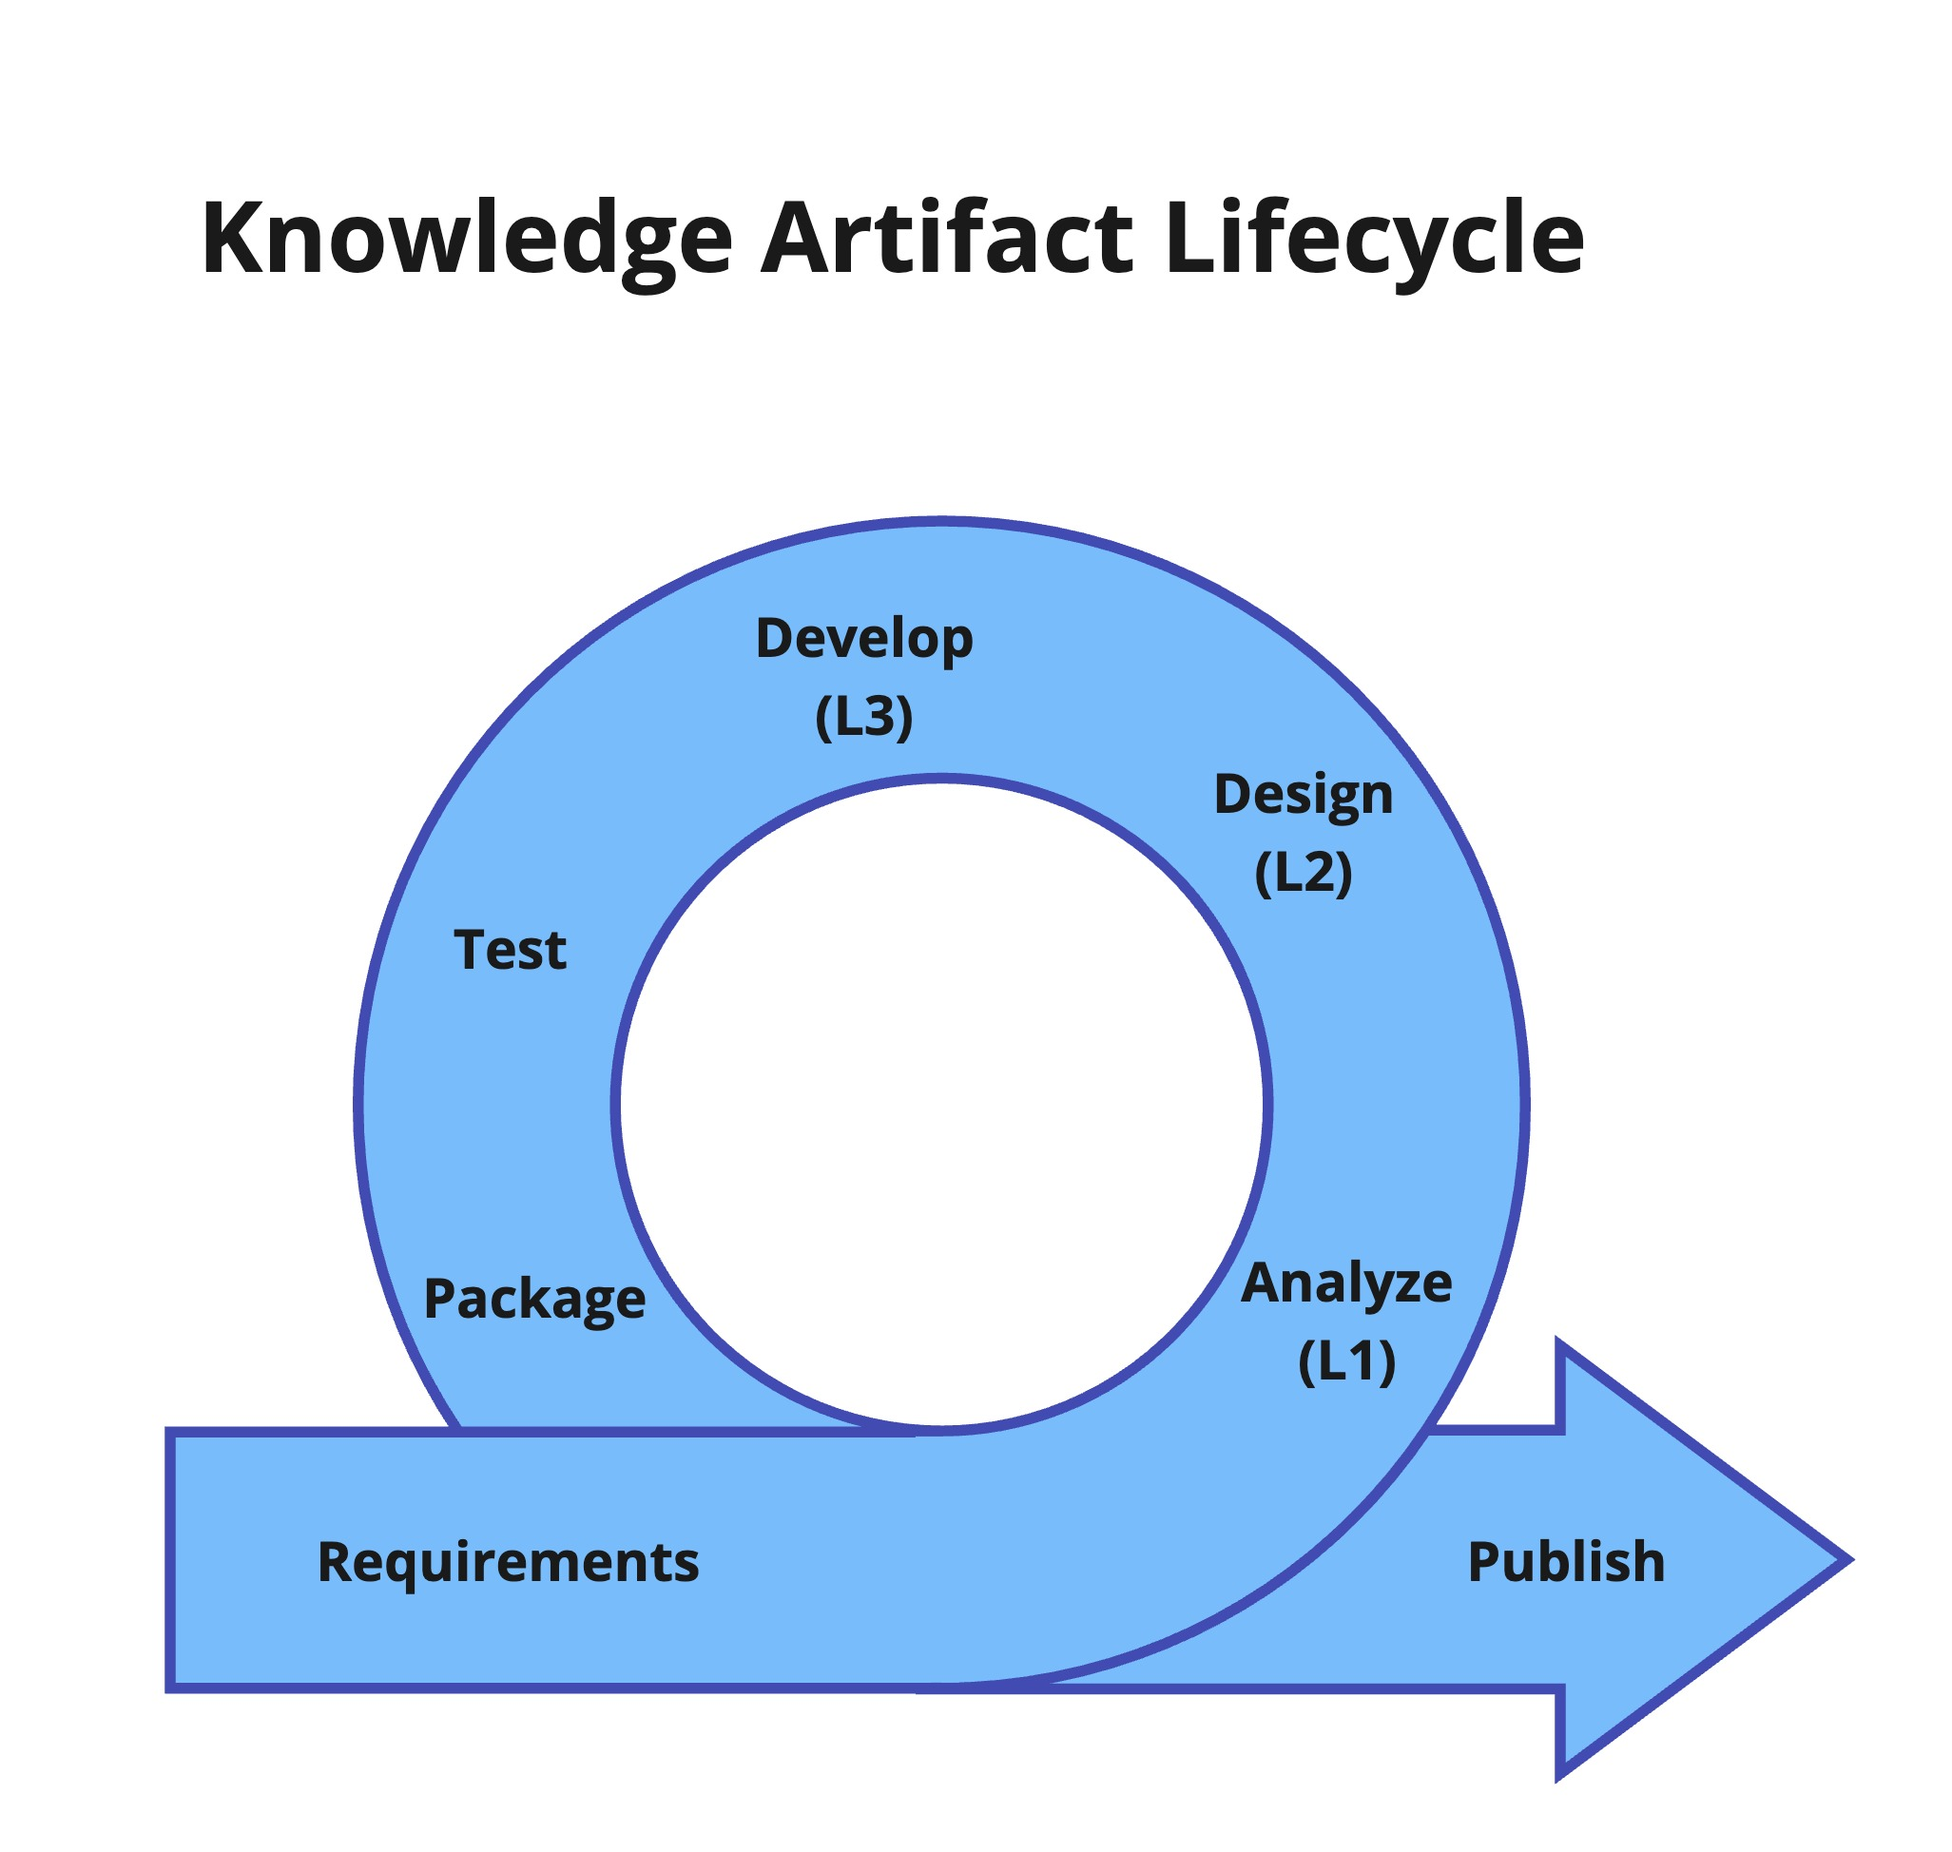
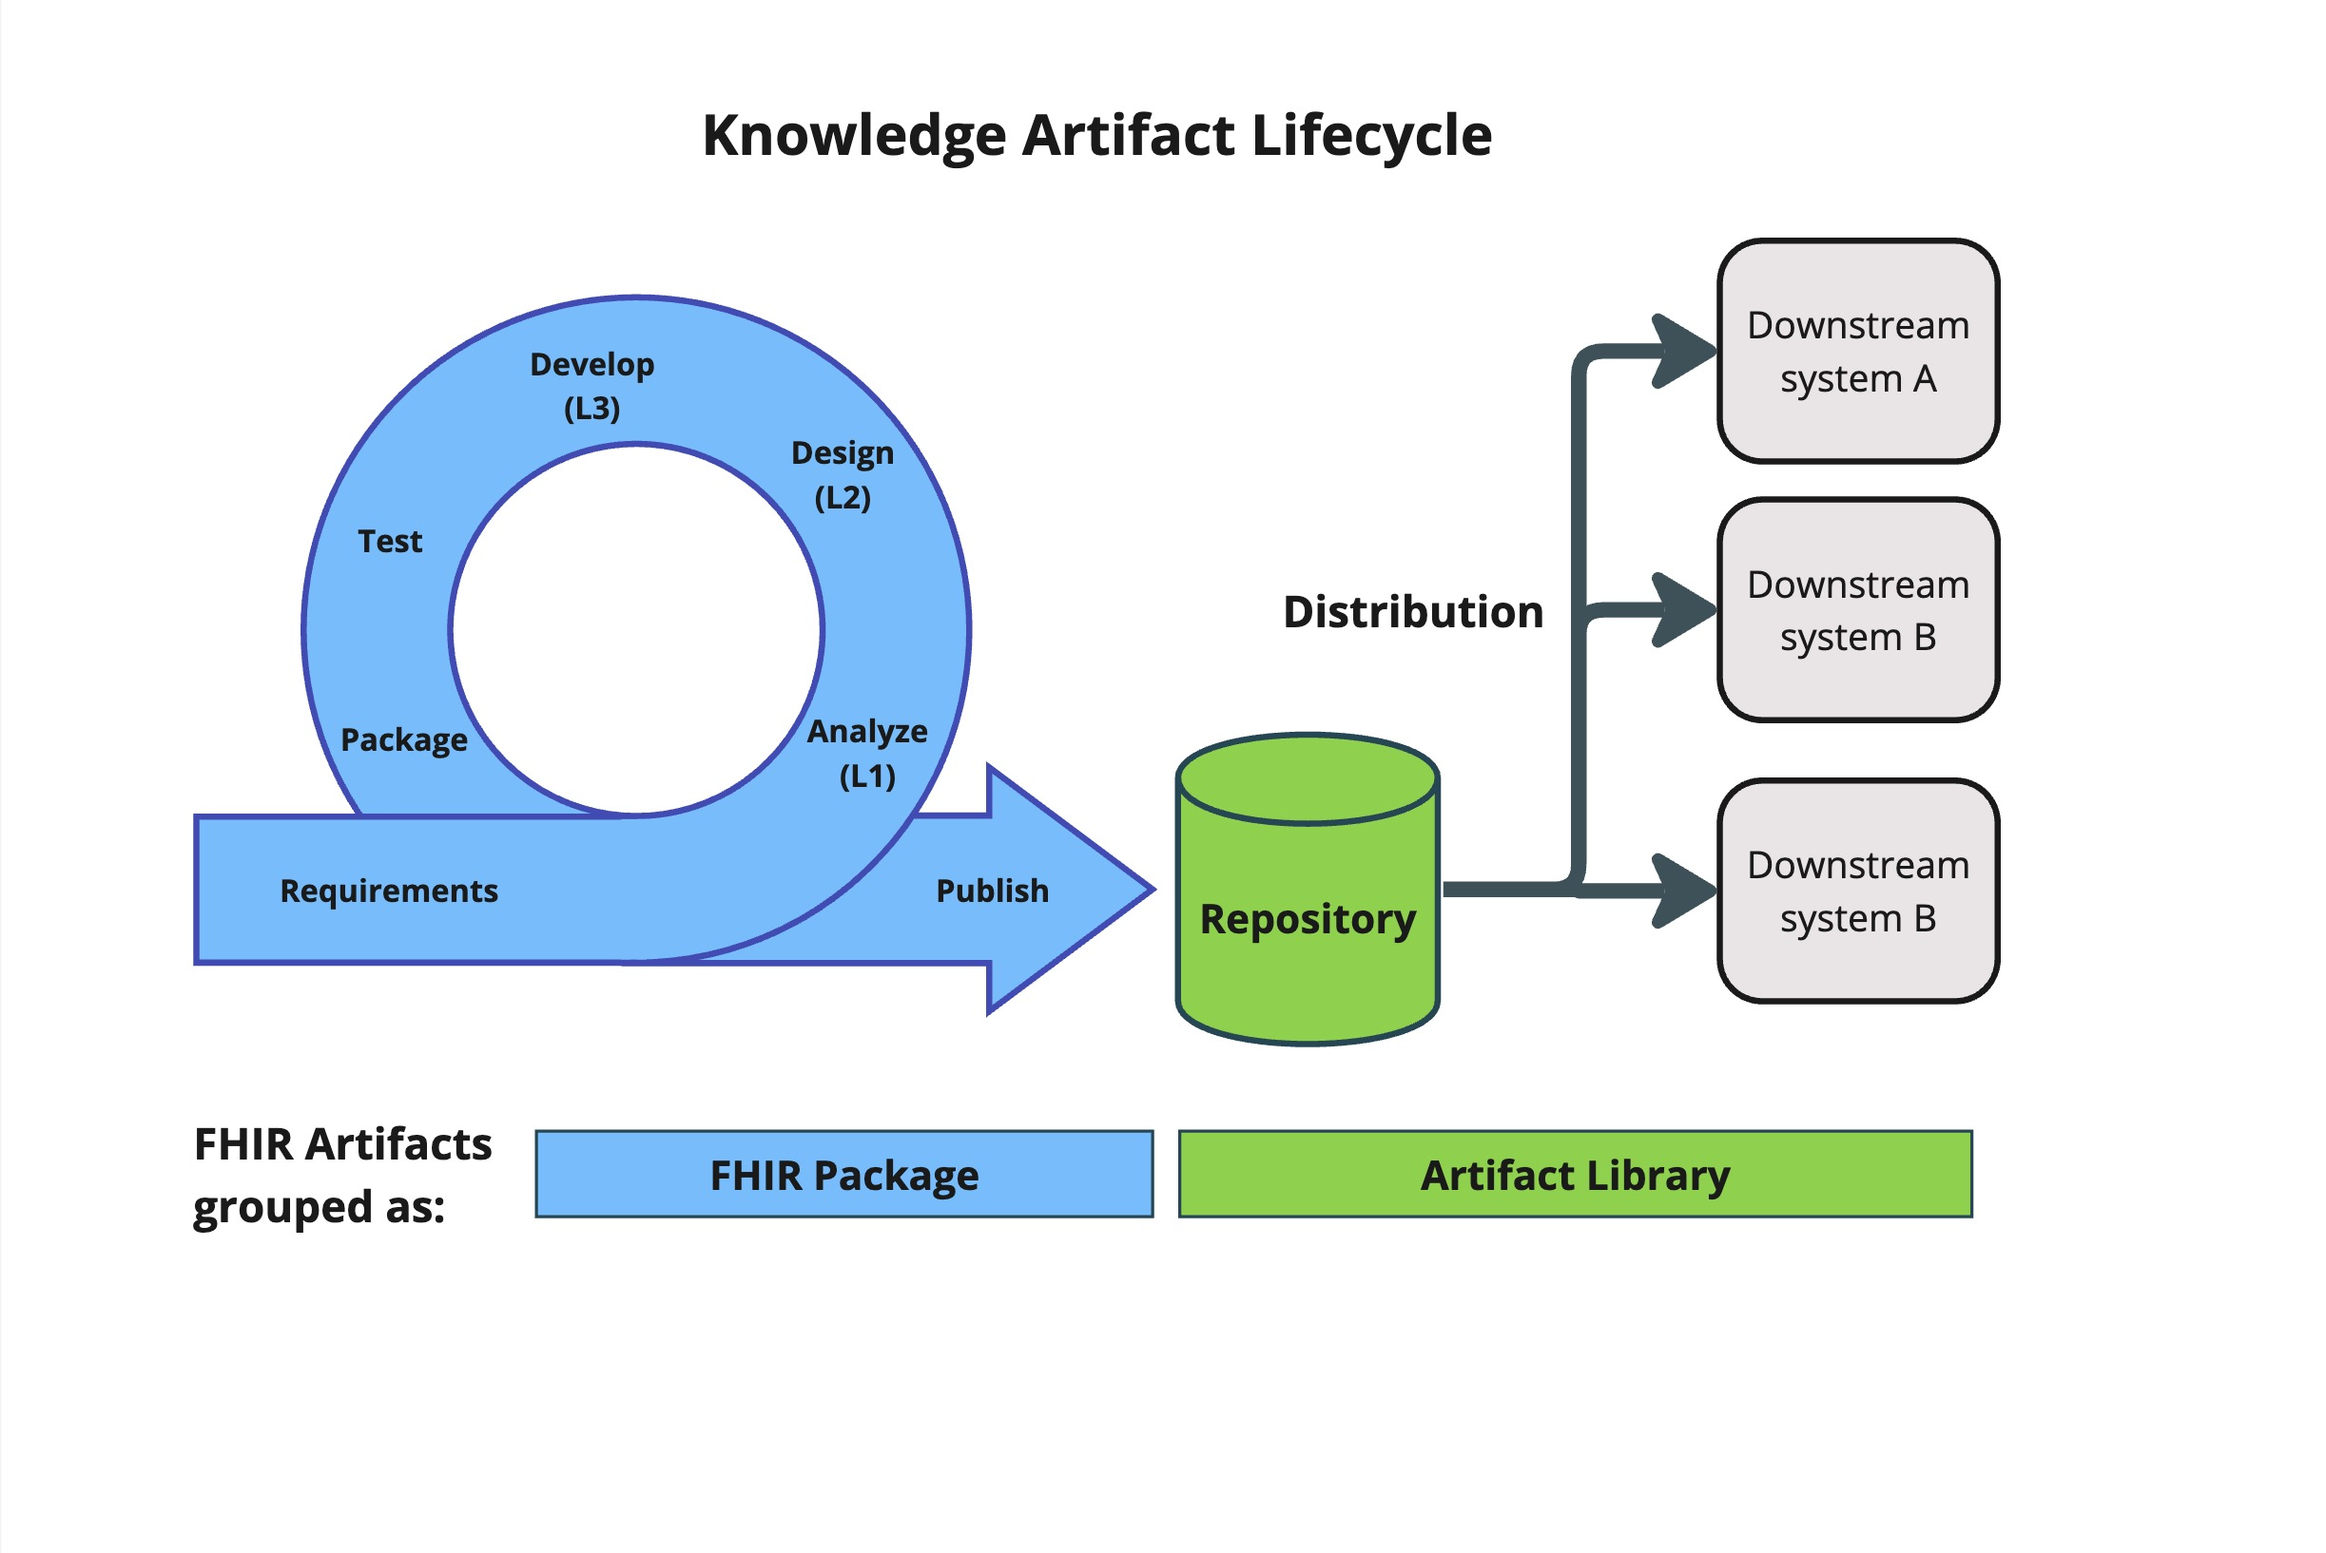
QA Update: FHIR Package vs Artifact Library

diff --git a/input/pages/content-lifecycle.md b/input/pages/content-lifecycle.md
@@ -5,7 +5,7 @@
 
 Knowledge artifacts go through a lifecycle, typically following a similar pattern found in software:
 
-<div style="max-width:500px;">
+<div style="max-width:750px;">
 {% include img.html img="knowledge-artifact-lifecycle.png" %}
 </div>
 
@@ -17,21 +17,28 @@ The `Publication Status` value set is used to track the lifecycle of an artifact
 
 To ensure stable resolution of dependencies of an artifact throughout its lifecycle (including stable value set expansion), a version manifest can be used to allow resolution of unversioned canonical references in the artifact and its dependencies. See the [Version Manifest](version-manifest.html) discussion for more information on how the Manifest Library profile supports stable resolution of dependencies.
 
-### Knowledge package
+### Grouping Knowledge Artifacts
 
-A knowledge package is a group of knowledge artifacts that go through the lifecycle together. This is similar to a software package. It is best practice that all artifiacts in a package may share common metadata (publisher, author, jurisdiction), as well as version, as well as the canonical root of their URLs. A knowledge package is distributed as a FHIR package.
+There are a few use-cases for groups of knowledge artifacts:
+1. During the authoring lifecycle
+2. Distribution of published artifacts
 
-Since there is currently no direct resource in FHIR to represent a FHIR Package, two approaches are currently considered:
-
-1. Use the ImplementationGuide resource: This resource can represent a FHIR package, as it has a `packageId` as well as references to all artifacts in the package.
-2. Use a Library resource: This resource, with some extensions and using `relatedArtifact` as `composed-of` could be used to represent the package.
-
-If using ImplementationGuide, the following query could be used to see what package a particular artifact is part of:
+#### For the authoring lifecycle, a FHIR Package is used. This is compatiable with
+HL7 FHIR Publishing tools. In the FHIR Package a corresponding
+ImplementationGuide resource is used to represent the package, as it has a
+`packageId`, a proposed `packageScope`, and references to all artifacts in the
+package. Additionally, the following query could be used to see what package a
+particular artifact is part of:
 ```
 /ImplementationGuide?resource={artifact.resourceType}/{artifact.id}
 ```
-
 If a single ImplementationGuide is returned, the package is the packageId. If multiple are found and the packageId varies, or if no ImplementationGuide resources are found, then it is not known what package the artifact is from.
+
+[See more about publishing](publishing.html)
+
+#### For distribution, an Artifact Library (FHIR Library) is used.
+
+This can be created following the `$package` operation and paramaters to define requirements for the group. [See more about distribution APIs](distribution.html).
 
 ### Components vs dependencies
 
